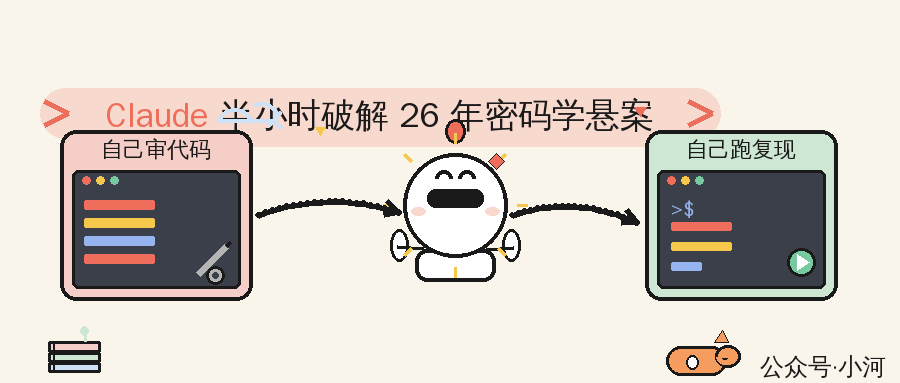
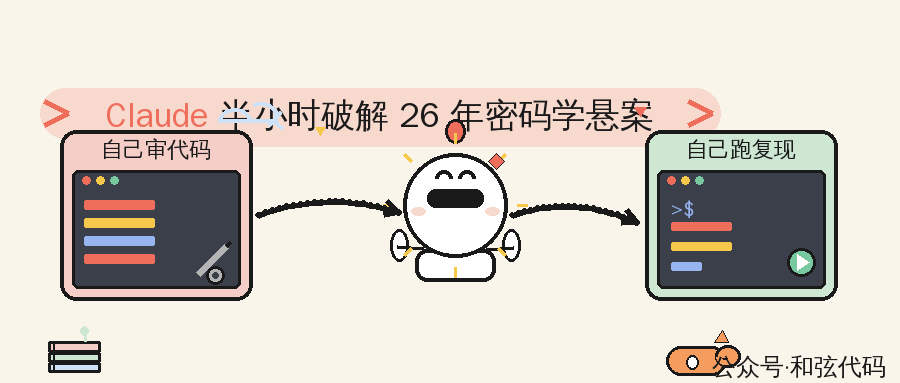
fix(brand): 水印统一为「公众号·和弦代码」- cover-artist.md/README/AGENTS/make_covers_hn.py 同步；重新生成三张 hn-ai-top5 封面

Changed region(s): [[0.7778, 0.9191, 0.9956, 1.0]]

diff --git a/scripts/make_covers_hn.py b/scripts/make_covers_hn.py
@@ -34,7 +34,7 @@ _FC = {}
 # 标题与文案
 TITLE_1, TITLE_2 = "Claude", " 半小时破解 26 年密码学悬案"
 SLOGAN = "给 AI 一双能验证的眼睛"
-WATER  = "公众号·小河"
+WATER  = "公众号·和弦代码"
 SUBS = {  # 位置: (小标题, 框色, 内容类型)
     "top":    ("自己找线索", BLUE,   "code"),
     "right":  ("自己跑复现", GREEN,  "terminal"),

diff --git a/.claude/agents/cover-artist.md b/.claude/agents/cover-artist.md
@@ -41,7 +41,7 @@ description: 公众号视觉 Agent：①封面图（三尺寸，用 xiaohu cover
 
 - **类型**：一张"海报感"图——标题式大字 + 要点/卖点 + 装饰，能独立传达这条图片消息的信息（图片消息无常排版，图即正文）。
 - **尺寸**：**900×500**（1.8:1，图片消息常规比例；`newspic.py` 直接传原图无缩放），PNG。如需其他比例，先与 content-manager 确认。
-- **风格**：同封面体系——奶油底 + 珊瑚红关键词 + 手绘感元素 + 右下角水印「公众号·小河」。
+- **风格**：同封面体系——奶油底 + 珊瑚红关键词 + 手绘感元素 + 右下角水印「公众号·和弦代码」。
 - **文字规则**：标题/卖点文字大而醒目（参照内容标题规则），单图文字 3–5 处为限，避免拥挤。
 - **产出路径**：`images/covers/<slug>-newspic.png`（或 `images/inline/`，以 content-manager 约定为准）。
 - 出图后 read 目检：文字完整可读、无水印遮挡、无贴边截断。
@@ -84,7 +84,7 @@ description: 公众号视觉 Agent：①封面图（三尺寸，用 xiaohu cover
 | 点缀黄 | `#F5C84C` |
 
 ### 水印
-右下角 `公众号·和旋代码`（参照图水印为他人账号，**必须替换**为本号）——封面与插图通用。
+右下角 `公众号·和弦代码`（正文/封面/插图统一）——封面与插图通用。
 
 ## 内容规则（三职能通用）
 - **标题/主文案**：直接用 content-manager 定下的文章标题；风格遵循"具体、有画面、动词驱动"（见 content-manager 标题规则）。

diff --git a/README.md b/README.md
@@ -78,7 +78,7 @@ cover-artist 有三个职能：**封面图 / 文章插图 / 图片消息插图**
     ```
     模型由 `cover/config.json` 指定（`settings.base_url` / `settings.model` / `secrets.api_key`），换模型只改 config 不动代码。
   - **模式 B（调用 cover-artist 子 agent 画图）**：无需 API 配置，由 cover-artist 子 agent（自带画图能力，如 paseo「画家」profile 的 claude-opus-5-5）按 style-ref 风格与三尺寸规范直接出图。
-  三尺寸：master 1080×608（16:9）/ cover 900×383（21:9，2.35:1 首图重排）/ square 500×500（1:1）；文字与关键图形落在中央垂直 60% 安全带内；水印「公众号·小河」。
+  三尺寸：master 1080×608（16:9）/ cover 900×383（21:9，2.35:1 首图重排）/ square 500×500（1:1）；文字与关键图形落在中央垂直 60% 安全带内；水印「公众号·和弦代码」。
 - **文章插图**：cover-artist 子 agent 画图能力直接产出（数据图/示意图）→ `images/inline/<slug>-<n>.png`，md 用 `![[文件名.png]]` 引用。
 - **图片消息插图**：cover-artist 子 agent 画图能力产出海报感单张主图（900×500 等）→ `images/covers/<slug>-newspic.png`。
 - `cover/config.json` 不入库；模式 A 未配置时 cover-artist 用模式 B（子 agent 直接出图），或如实报告不可用，不降级。

diff --git a/AGENTS.md b/AGENTS.md
@@ -103,6 +103,6 @@ article_sync 映射：article_id ↔ media_id + local_hash/remote_hash + sync_at
 
 ## 封面规范速览（完整见 cover-artist.md）
 
-- 参照 `images/style-ref.png`：奶油底 + 顶部标题条（珊瑚红关键词）+ 中央机器人 + 四色环形流程框 + 底部标语 + 角落装饰（叠书/睡猫/云朵）+ 水印 `公众号·小河`。
+- 参照 `images/style-ref.png`：奶油底 + 顶部标题条（珊瑚红关键词）+ 中央机器人 + 四色环形流程框 + 底部标语 + 角落装饰（叠书/睡猫/云朵）+ 水印 `公众号·和弦代码`。
 - **产出三尺寸**：`-master`(1080×608 文内头图)、`-cover`(900×383 微信首图 2.35:1 **重排非裁切**)、`-square`(500×500 分享卡)。
 - 2.35:1 / 1:1 版本关键元素落在中央垂直 60% 安全带内。
